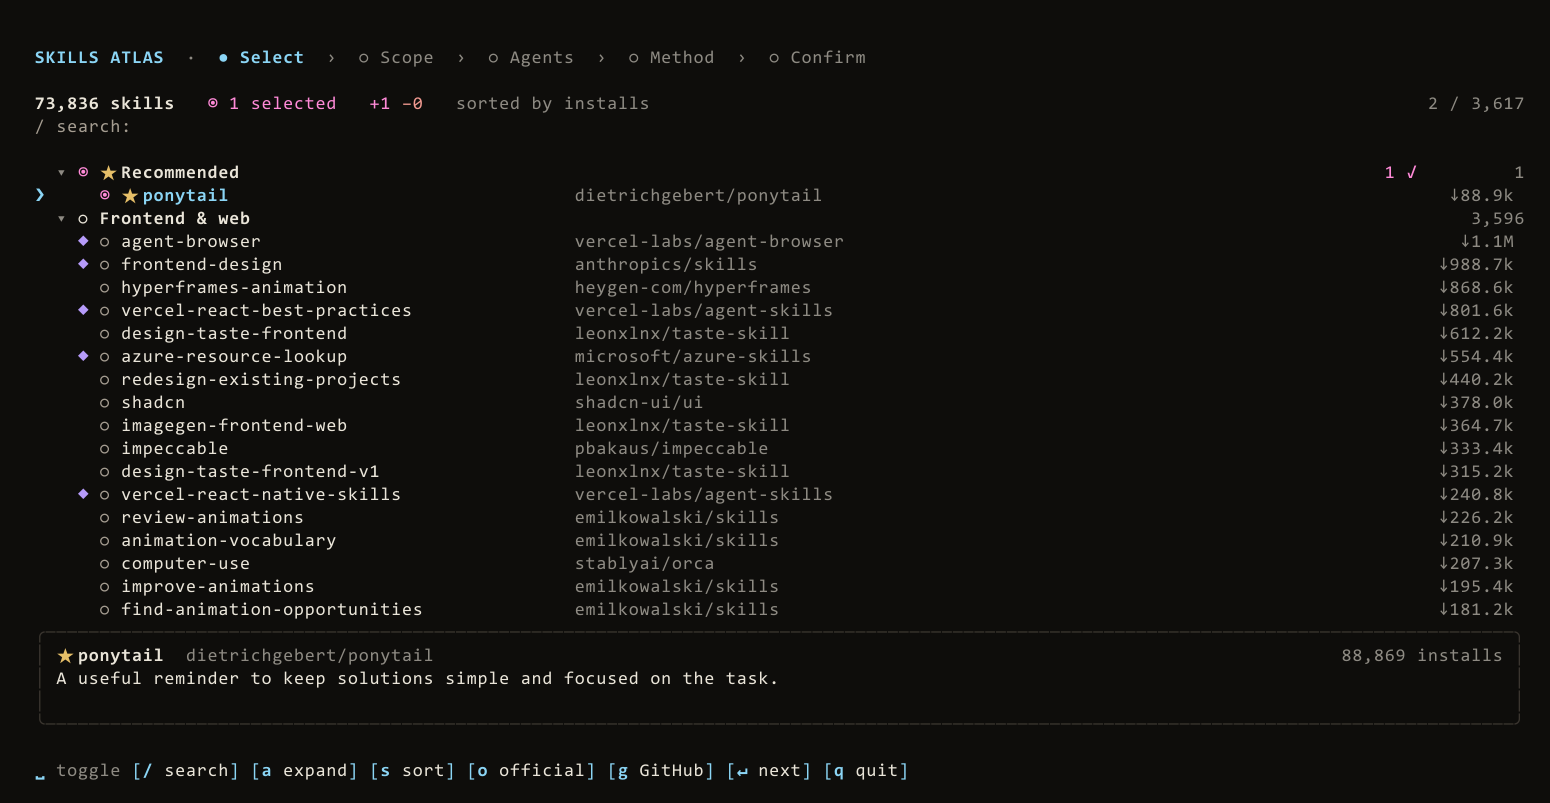
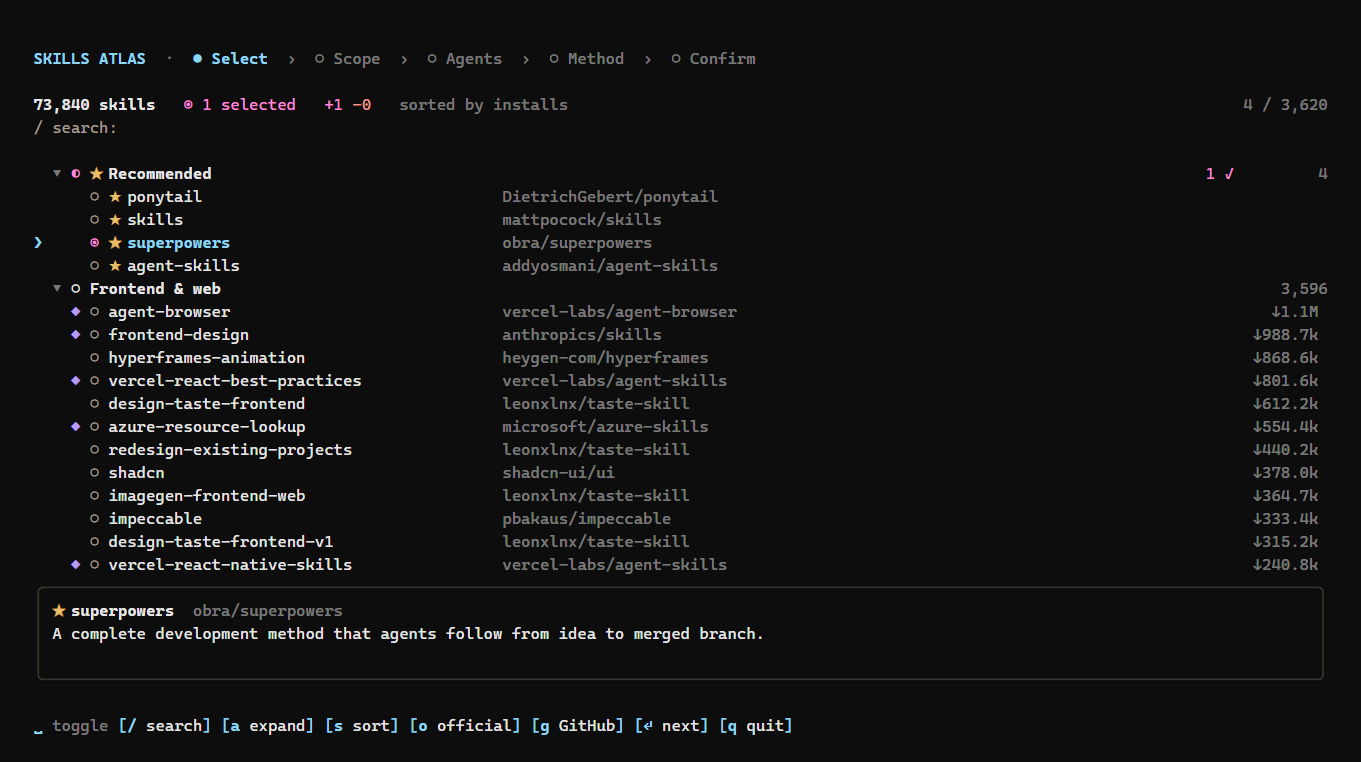
docs: refresh interface screenshots for 0.7.1

diff --git a/README.md b/README.md
@@ -4,7 +4,7 @@ Browse public **Agent Skills** (`SKILL.md` format) by theme in a collapsible ter
 
 **★ Recommended** highlights a personal selection, with Ponytail, mattpocock/skills, obra/superpowers and addyosmani/agent-skills. Both interfaces support nine languages, including Italian, Japanese, Korean and Simplified Chinese.
 
-![Skills Atlas terminal tree showing pink selections, gold Recommended stars and keyboard controls](https://raw.githubusercontent.com/devohmycode/skills-atlas/main/docs/screenshot.png?v=0.7.0)
+![Skills Atlas terminal tree showing pink selections, gold Recommended stars and keyboard controls](https://raw.githubusercontent.com/devohmycode/skills-atlas/main/docs/screenshot.png?v=0.7.1)
 
 *Terminal: candy-pink selections, gold Recommended stars and keyboard controls.*
 
@@ -31,7 +31,7 @@ skills-atlas ui                               # the same in your browser, with t
 
 ### Web interface
 
-![Skills Atlas web interface with Recommended skills, catalog search and an installation changes panel](https://raw.githubusercontent.com/devohmycode/skills-atlas/main/docs/web-ui.jpg?v=0.7.0)
+![Skills Atlas web interface with Recommended skills, catalog search and an installation changes panel](https://raw.githubusercontent.com/devohmycode/skills-atlas/main/docs/web-ui.jpg?v=0.7.1)
 
 *Web: the same catalog and selection workflow, with light, dark and system appearance.*
 
